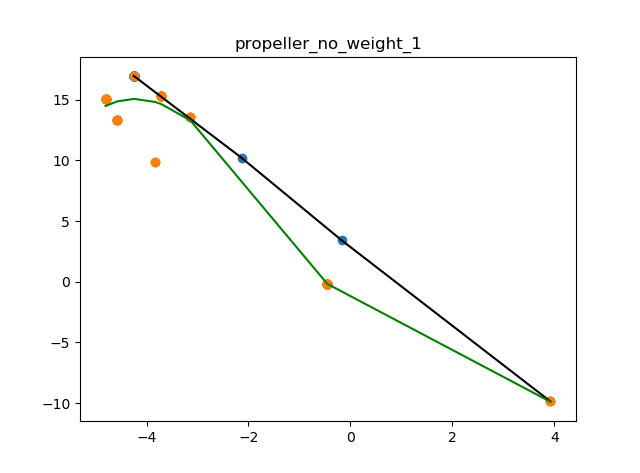
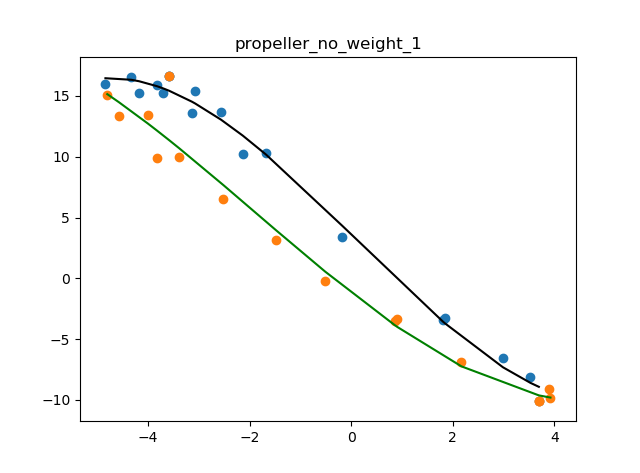
choice of points ok

diff --git a/new_projections.py b/new_projections.py
@@ -119,7 +119,7 @@ def add_border_points(right_points, one_plane_point):
     return right_points.sort_values('X').reset_index(drop=True)
 
 
-def get_points(propeller_coords, planes, threshold):
+def get_points(propeller_coords, planes, nb_point_each_side):
     '''Get the points around EACH plane for projection
     INPUT: Dataframe points of blade, 
                 np.array plane equation, 
@@ -132,7 +132,7 @@ def get_points(propeller_coords, planes, threshold):
         if(i==0 or i == (len(planes)-1)):   #do not take into account first plane (hub) and last plane (extremity)
             pass
         else:
-            points.append( points_of_plane_VERSION2(propeller_coords, plane, threshold) )
+            points.append( points_of_plane_VERSION2(propeller_coords, plane, nb_point_each_side) )
             print("Points of plane {}".format(i))
 
     return points
@@ -149,12 +149,11 @@ def points_of_plane_VERSION2(propeller_coords, plane, threshold):
     max_aerofoil_width = aerofoil_width(propeller_coords)
 
     index_segment = []
-    index_segment_up = []
-    index_segment_dn = []
+
 
     print("Upper")
+    index_segment_up = []
     delta = 0.1
-    ## Upper side
     old_plane = plane[:]
     new_plane = plane[:] + [0,0,0,delta]
     points_taken = 0
@@ -173,8 +172,9 @@ def points_of_plane_VERSION2(propeller_coords, plane, threshold):
         delta += 0.1                                 #set a plausible delta
         old_plane = new_plane[:]
         new_plane = new_plane[:] + [0,0,0,delta]
+
     print("delta up is {}", delta)             
-    taken_up = propeller_coords.loc[index_segment].copy()
+    taken_up = propeller_coords.loc[index_segment_up].copy()
 
     while(points_taken < threshold):   # while less than threshold nb of pts are added at each iteration, continue to add points
         #nb_pts_at_a_time = 0
@@ -183,24 +183,25 @@ def points_of_plane_VERSION2(propeller_coords, plane, threshold):
             point_mult = np.append(point, 1)                                #[x, y, z] to [x, y, z, 1]: to multiply with plane [a, b, c, d]
 
             if(point_mult @ old_plane < 0 and point_mult @ new_plane >= 0): #if point between in interval delta between planes
+                to_add = True
 
                 for _, already_taken in taken_up.iterrows(): 
                     distance = math.sqrt( (point[0] - already_taken[0])**2 + (point[1] - already_taken[1])**2 )
 
-                    if(  distance < (max_aerofoil_width/20)  ): #if not far enough of already taken
-                        break
+                    if(  distance < (max_aerofoil_width/40)  ): #if not far enough of already taken
+                        to_add = False
+                if(to_add):
                     print("upper taken {}".format(points_taken))
                     points_taken += 1
                     index_segment.append(index)
                     index_segment_up.append(index) #DEBUG
-
                     taken_up = propeller_coords.loc[index_segment_up].copy()
-
 
         old_plane = new_plane[:]
         new_plane = new_plane[:] + [0,0,0,delta]                            #consider next interval at next iteration
 
     print("Lower")
+    index_segment_dn = []
     delta = 0.1
     ## Lower side
     old_plane = plane[:]
@@ -220,6 +221,7 @@ def points_of_plane_VERSION2(propeller_coords, plane, threshold):
         delta += 0.1                                 #set a plausible delta
         old_plane = new_plane[:]
         new_plane = new_plane[:] - [0,0,0,delta]
+
     print("delta down is {}", delta)             
     taken_down = propeller_coords.loc[index_segment].copy()
 
@@ -230,16 +232,18 @@ def points_of_plane_VERSION2(propeller_coords, plane, threshold):
             point_mult = np.append(point, 1)                                #[x, y, z] to [x, y, z, 1]: to multiply with plane [a, b, c, d]
 
             if(point_mult @ old_plane > 0 and point_mult @ new_plane <= 0): #if point between in interval delta between planes
-
+                to_add = True
+                
                 for _, already_taken in taken_down.iterrows(): 
                     distance = math.sqrt( (point[0] - already_taken[0])**2 + (point[1] - already_taken[1])**2 )
 
-                    if(  distance < (max_aerofoil_width/20)  ): #if not far enough of already taken
-                        break
+                    if( distance < (max_aerofoil_width/40) ): #if not far enough of already taken
+                        to_add = False
+
+                if(to_add):    
                     print("lower taken{}".format(points_taken))
                     points_taken += 1
                     index_segment.append(index)
-
                     index_segment_dn.append(index) #DEBUG
                     taken_down = propeller_coords.loc[index_segment_dn].copy()
 

diff --git a/test2.py b/test2.py
@@ -18,7 +18,7 @@ from new_projections import *
 #delta = 0.6   #aerostar
 
 propeller = pd.read_csv('propeller_data.csv')
-threshold = 20
+nb_point_each_side = 15
 
 ''' Choose number of aerofoil wanted
 '''
@@ -60,7 +60,7 @@ planes = get_planes(upper_blade, dmiddle, dhighest, vect_length, nb_seg)   #get 
 print("Planes computed")
 #print(len(planes))
 
-all_plane_points = get_points(upper_blade, planes, threshold)                  #get points used for each projection
+all_plane_points = get_points(upper_blade, planes, nb_point_each_side)                  #get points used for each projection
 print("Points selected")
 #print(len(all_plane_points))
 #plot_projection_up_down(all_plane_points[0], all_plane_points[1])
